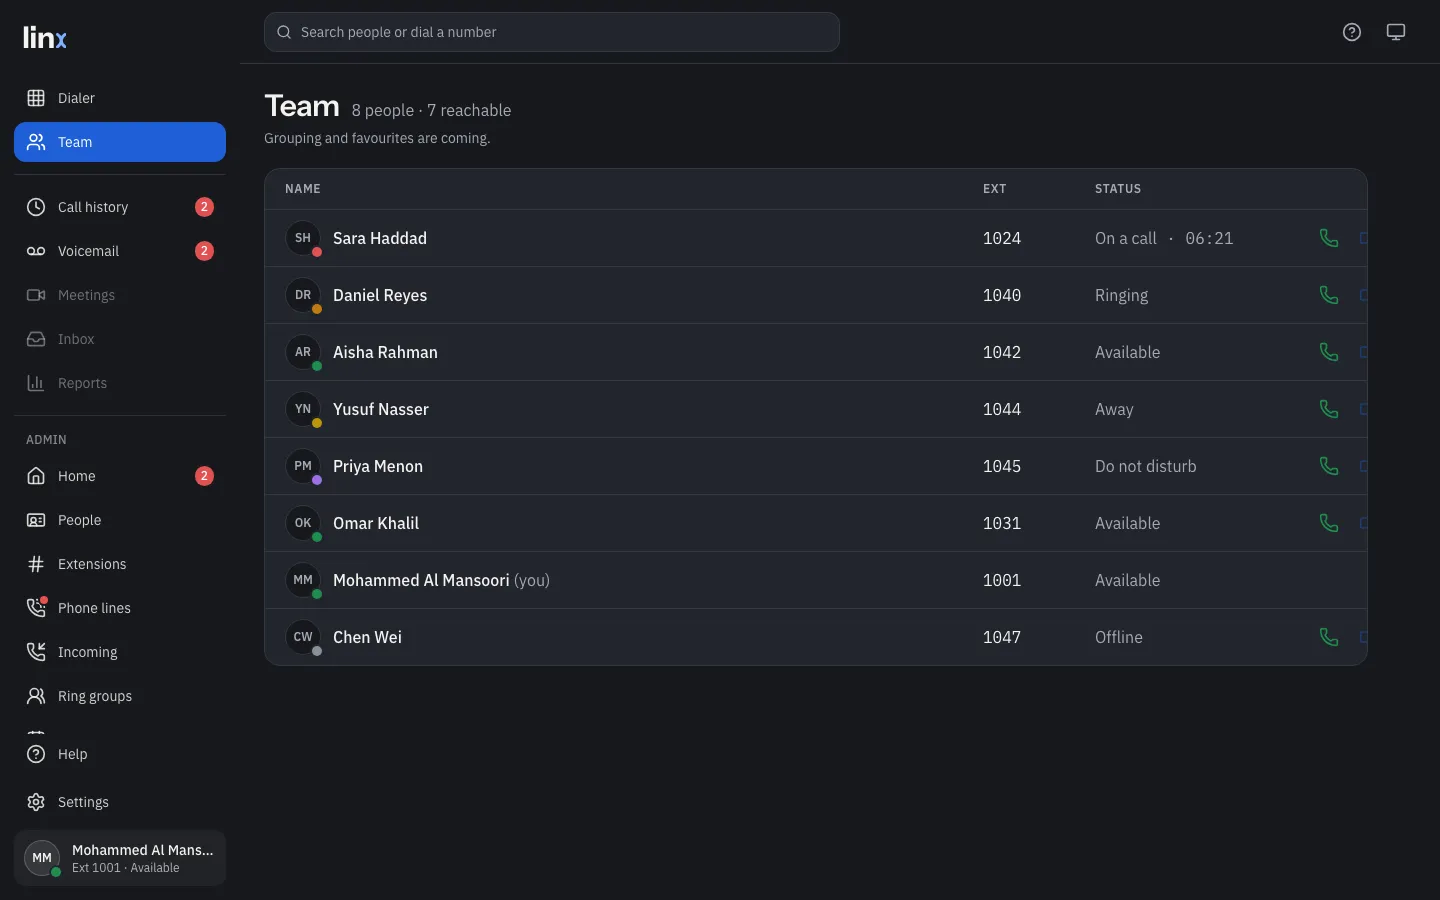
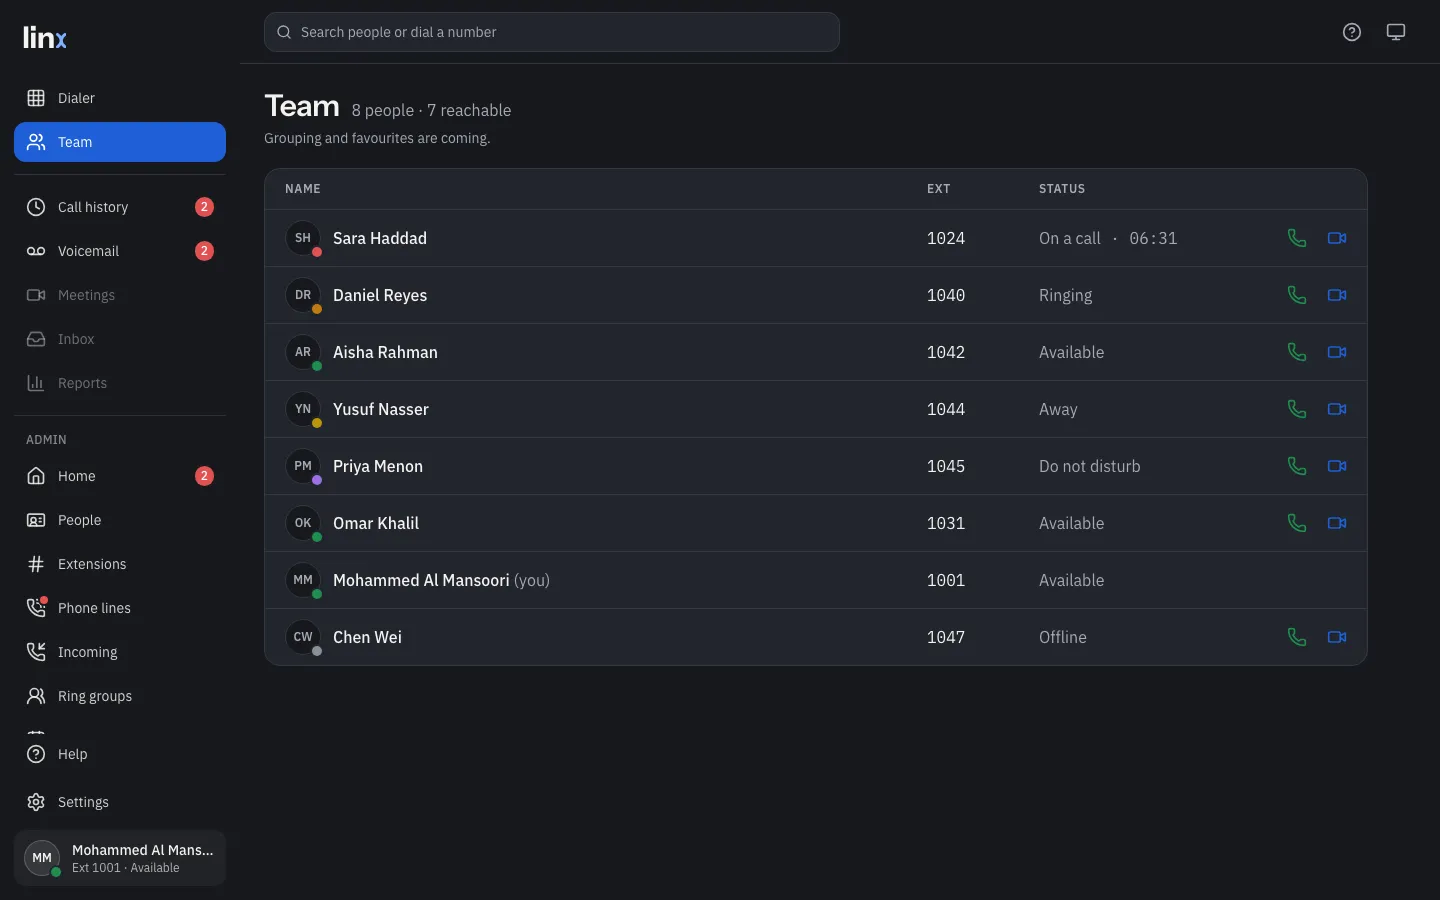
web: the Team list's call buttons fit on the card
The owner, 2026-10-20: "the voice call button and the video call button
are not aligned and the page is not allowing me to scroll left and
right." The actions column was w-14 (56px) in a table-fixed table and
held two 36px buttons, their gap and the padding at the end -- about
88px -- so the card's own overflow-hidden cut the video button in half,
and no page in Linx scrolls sideways to reach it (owner's rule,
2026-09-27). The column is w-28 now; the name column gives up the space.

The screenshot sweep did not catch it, because it only looked for boxes
that **scroll** sideways and this one clips. It now also fails any
screen where something you can press is cut off by a box that clips.
Text that ends in an ellipsis is a different thing and is left alone.

Claude-Session: https://claude.ai/code/session_01WQQf6pLa537177egHxmPJF

diff --git a/web/e2e/screens.spec.ts b/web/e2e/screens.spec.ts
@@ -23,9 +23,28 @@ async function noSidewaysScroll(page: Page, name: string) {
         out.push(`${label} (${el.scrollWidth}px in ${el.clientWidth}px): ${(el.textContent ?? "").trim().slice(0, 60)}`);
       }
     }
+    // And nothing you can press is cut off by a box that clips instead of
+    // scrolling (owner, 2026-10-20: the video call button on Team was half
+    // off the card and the page, rightly, would not scroll sideways to
+    // reach it). Text that ends in an ellipsis is a different thing and is
+    // left alone — only buttons and links are checked.
+    for (const el of Array.from(document.querySelectorAll<HTMLElement>('button, a[href], [role="button"]'))) {
+      const box = el.getBoundingClientRect();
+      if (box.width < 1 || box.height < 1) continue;
+      for (let parent = el.parentElement; parent; parent = parent.parentElement) {
+        const clips = getComputedStyle(parent).overflowX;
+        if (clips !== "hidden" && clips !== "clip") continue;
+        const edge = parent.getBoundingClientRect();
+        if (edge.width < 1) continue;
+        if (box.right > edge.right + 1 || box.left < edge.left - 1) {
+          const label = el.getAttribute("aria-label") ?? (el.textContent ?? "").trim().slice(0, 40) ?? "a button";
+          out.push(`"${label}" is cut off by ${parent.tagName.toLowerCase()}.${parent.className}`);
+        }
+      }
+    }
     return out;
   });
-  expect(offenders, `${name} scrolls sideways`).toEqual([]);
+  expect(offenders, `${name} hides something`).toEqual([]);
 }
 
 // The shots the help guides show (`![…](screen:<name>)` in docs/help) are

diff --git a/web/src/screens/Team.tsx b/web/src/screens/Team.tsx
@@ -1,5 +1,12 @@
 // The Team list (WEB_SCREENS_PHASE1C.md §6): one flat list by name, with
 // live status.
+//
+// The call buttons' column is wide enough to hold both of them (owner,
+// 2026-10-20: the video button was cut off and no page scrolls sideways to
+// reach it). The table is `table-fixed`, so that width is the column's
+// width: two 36px buttons, the gap between them, their focus rings and the
+// padding at the end have to fit inside it or the card's `overflow-hidden`
+// simply cuts the second button off. `web/e2e/screens.spec.ts` checks it.
 import { Phone, Video } from "lucide-react";
 import type { TeamMember } from "@/api/client";
 import { Avatar, statusLabel, useElapsed } from "@/components/presence";
@@ -38,7 +45,7 @@ export function TeamScreen({ members, query }: { members: TeamMember[] | null; q
               <th scope="col" className="px-4 py-3 text-start md:px-5">Name</th>
               <th scope="col" className="w-20 px-2 py-3 text-start md:w-28">Ext</th>
               <th scope="col" className="hidden w-56 px-2 py-3 text-start sm:table-cell">Status</th>
-              <th scope="col" className="w-14 py-3"><span className="sr-only">Call</span></th>
+              <th scope="col" className="w-28 py-3"><span className="sr-only">Call</span></th>
             </tr>
           </thead>
           <tbody className="divide-y">
